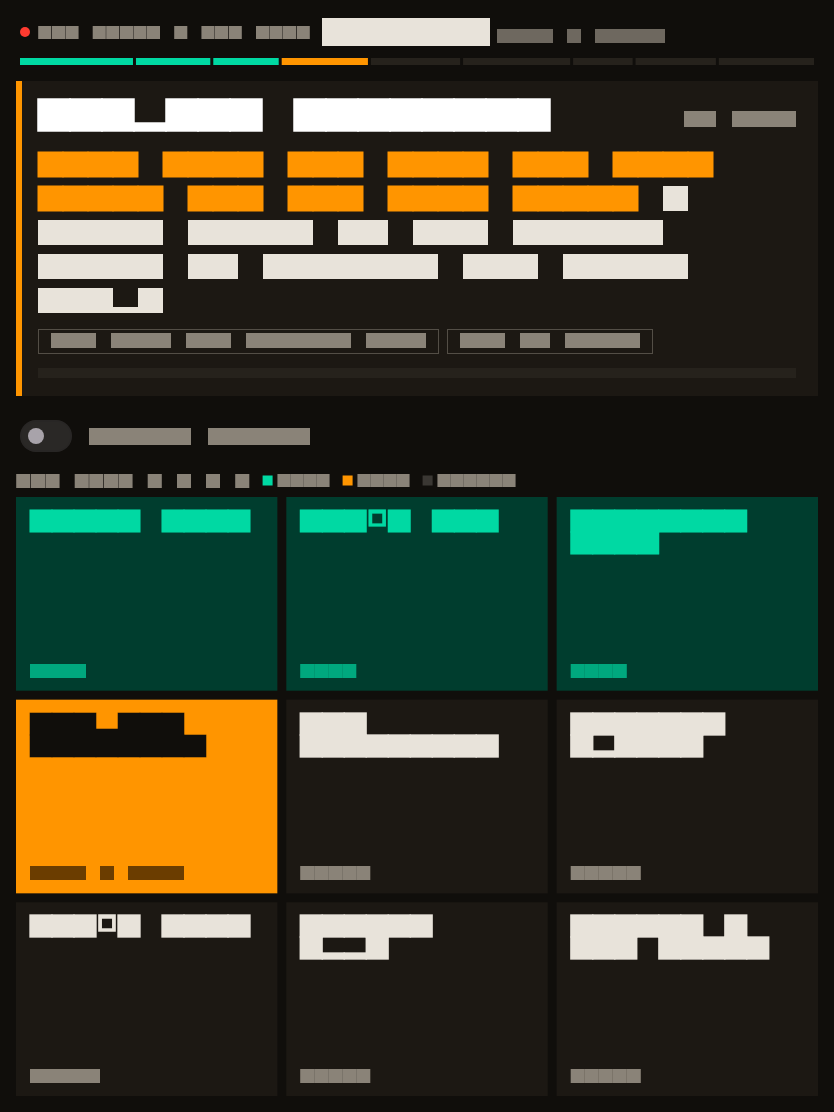
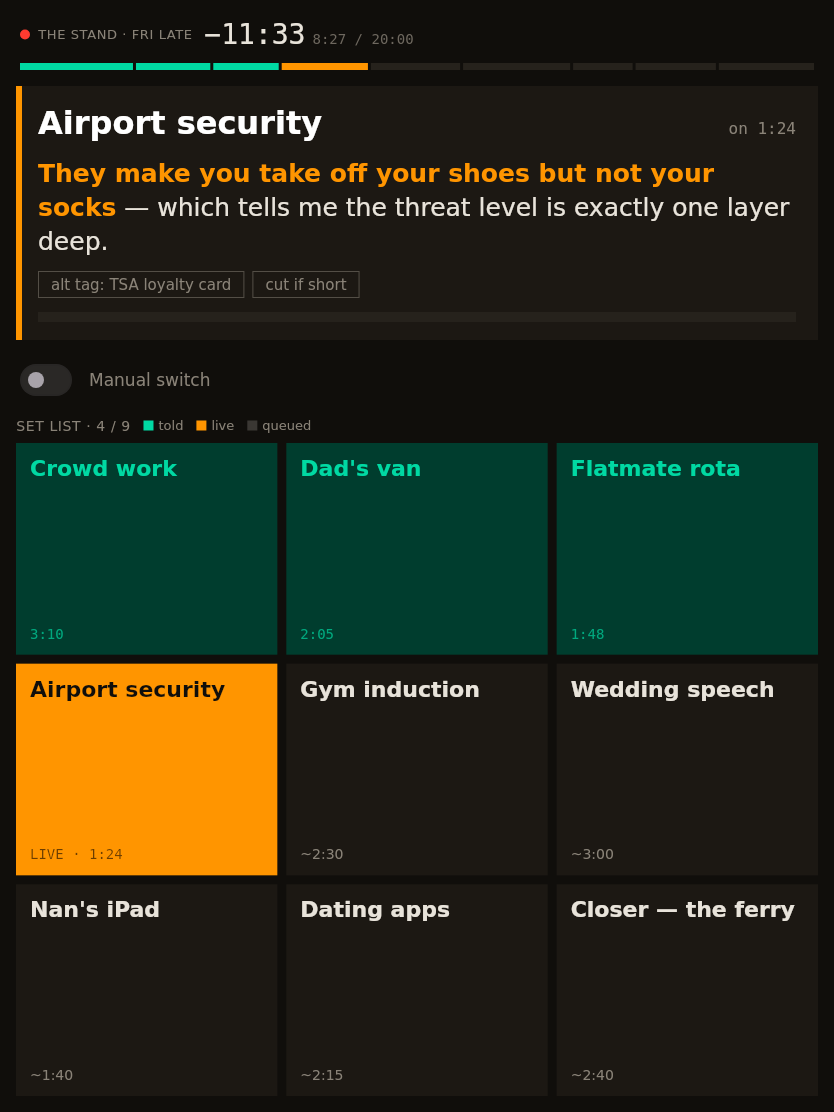
Make the spec's pictures show what their leaves claim
Two independent defects meant the gallery proved far less than it looked
like. Both are fixed here and every golden is re-baselined once, so the
diff is the first honest look at most of these leaves.

Region crops rendered the whole screen. matchesGoldenFile given a Finder
captures that finder's nearest ancestor RepaintBoundary, and the screen
has none per element, so seventeen leaves about seventeen different
things were all proved by one identical picture. The crop now happens in
the harness, out of a single boundary around the composed screen — which
is what the document already said it did, and keeps the boundary out of
the product. Distinct images go from 8 of 24 to 19; the five that remain
are pairs of leaves that genuinely share a region.

Text rendered as boxes. loadProductFonts registered each family under
the name the manifest lists, but a dependency's families are namespaced
packages/<package>/<family> while a TextStyle names the bare family, so
the bytes loaded under a name nothing asked for and every render fell
back to the glyph-less stub. Stripping the prefix is a no-op in the
package that owns the fonts and the fix in every package that consumes
them.

The assurance that would have caught it lived only in setlist_ui, which
is the package where it cannot fail. It is now a shared assertion, and
the requirements half runs inside runner_test.dart — beside the goldens,
in the command that produces them, since a file at that package's root
[…]

diff --git a/packages/setlist_ui/lib/testing.dart b/packages/setlist_ui/lib/testing.dart
@@ -6,6 +6,8 @@ import 'package:flutter_test/flutter_test.dart';
 
 import 'setlist_ui.dart';
 
+export 'src/font_assurance.dart' show expectFontsRenderRealGlyphs;
+
 /// Loads the families the product bundles into the test renderer.
 ///
 /// A test environment renders text in a glyph-less stub font by default, where
@@ -31,13 +33,33 @@ Future<void> loadProductFonts() async {
     await rootBundle.loadString('FontManifest.json'),
   ) as List<dynamic>;
 
+  if (manifest.isEmpty) {
+    throw StateError(
+      'FontManifest.json declares no families, so every render would use the '
+      'glyph-less fallback and any golden of it would be blind to copy.',
+    );
+  }
+
   for (final entry in manifest.cast<Map<String, dynamic>>()) {
-    final loader = FontLoader(entry['family'] as String);
+    final loader = FontLoader(_bareFamily(entry['family'] as String));
     for (final font in (entry['fonts'] as List<dynamic>).cast<Map<String, dynamic>>()) {
       loader.addFont(rootBundle.load(font['asset'] as String));
     }
     await loader.load();
   }
+}
+
+/// The family name a widget asks for, from the name the manifest lists it under.
+///
+/// A package's own fonts appear in its manifest unprefixed, but the same fonts
+/// seen from a package that *depends* on it are namespaced
+/// `packages/<package>/<family>`. A `TextStyle` names the bare family either
+/// way, so registering the manifest's name verbatim loads the bytes under a
+/// name nothing asks for: the text then renders in the glyph-less fallback, and
+/// a golden of it is blind to copy while still passing.
+String _bareFamily(String manifestFamily) {
+  final match = RegExp(r'^packages/[^/]+/(.+)$').firstMatch(manifestFamily);
+  return match?.group(1) ?? manifestFamily;
 }
 
 /// The sizes the product is specified at.
@@ -65,6 +87,12 @@ List<String> get stageSizesWidestLast {
   names.sort((a, b) => stageSizes[a]!.width.compareTo(stageSizes[b]!.width));
   return names;
 }
+
+/// The composed screen, as one capturable layer.
+///
+/// Every picture in the spec — whole screen or one element — is read out of
+/// this, so an element is always proved in the context the product shows it in.
+final stageRootKey = GlobalKey(debugLabel: 'stage-root');
 
 /// Renders the real stage screen at one of the specified sizes.
 ///
@@ -110,11 +138,13 @@ Future<void> pumpStage(
           child: SizedBox(
             width: bounds.width,
             height: bounds.height,
-            // Keyed by size so a second render in the same test builds a fresh
-            // tree rather than updating the last one: reused elements keep
-            // their old slots, and a card ends up laid out against a width the
-            // screen no longer has.
-            child: StageScreen(state: state),
+            // The boundary every picture in the spec is read out of: capturing
+            // an element needs a layer, and the composed screen is the only one
+            // the product actually draws.
+            child: RepaintBoundary(
+              key: stageRootKey,
+              child: StageScreen(state: state),
+            ),
           ),
         ),
       ),

diff --git a/packages/setlist_ui/test/fonts_render_real_glyphs_test.dart b/packages/setlist_ui/test/fonts_render_real_glyphs_test.dart
@@ -1,72 +1,14 @@
-import 'dart:typed_data';
-import 'dart:ui' as ui;
-
-import 'package:flutter/material.dart';
-import 'package:flutter/rendering.dart';
 import 'package:flutter_test/flutter_test.dart';
 import 'package:setlist_ui/testing.dart';
 
-/// The assurance behind [loadProductFonts]: with the product's fonts loaded,
-/// two strings that differ only in a character — not in length — must render
-/// differently.
-///
-/// This is the test that keeps the gallery honest. Without it the harness can
-/// regress to the stub font and every golden keeps passing while proving only
-/// that the text is the right *length*; the spec pins exact copy at more than a
-/// dozen leaves, and all of them would silently stop being checked. Watched it
-/// fail with the fonts unloaded: the two renders below came back identical.
+/// The assurance behind [loadProductFonts], run in the package that declares
+/// the fonts. Its twin in `dev/requirements` runs the same check in the package
+/// that renders the spec's goldens — font resolution is per-package, so passing
+/// here says nothing about passing there.
 void main() {
   setUpAll(loadProductFonts);
 
   testWidgets('same-length copy changes are visible in a render', (tester) async {
-    final stand = await _render(tester, 'THE STAND');
-    final stane = await _render(tester, 'THE STANE');
-
-    // Same character count and the same style, so the layout box is identical:
-    // a difference in the pixels can only be the glyphs themselves.
-    expect(stand.width, stane.width);
-    expect(stand.height, stane.height);
-    expect(
-      stand.pixels,
-      isNot(equals(stane.pixels)),
-      reason: 'THE STAND and THE STANE rendered identically — the renderer is '
-          'drawing boxes, not glyphs, so no golden can see wrong copy',
-    );
+    await expectFontsRenderRealGlyphs(tester);
   });
-
-}
-
-final _boundary = GlobalKey();
-
-class _Render {
-  const _Render(this.width, this.height, this.pixels);
-  final int width;
-  final int height;
-  final Uint8List pixels;
-}
-
-Future<_Render> _render(WidgetTester tester, String text) async {
-  await tester.pumpWidget(
-    RepaintBoundary(
-      key: _boundary,
-      child: Directionality(
-        textDirection: TextDirection.ltr,
-        child: Text(
-          text,
-          style: const TextStyle(fontFamily: 'DejaVuSans', fontSize: 32),
-        ),
-      ),
-    ),
-  );
-  await tester.pumpAndSettle();
-
-  // toImage completes only outside the fake-async test zone.
-  late _Render render;
-  await tester.runAsync(() async {
-    final boundary = _boundary.currentContext!.findRenderObject()! as RenderRepaintBoundary;
-    final image = await boundary.toImage();
-    final data = await image.toByteData(format: ui.ImageByteFormat.rawRgba);
-    render = _Render(image.width, image.height, data!.buffer.asUint8List());
-  });
-  return render;
 }

diff --git a/packages/setlist_ui/lib/src/font_assurance.dart b/packages/setlist_ui/lib/src/font_assurance.dart
@@ -1,0 +1,66 @@
+import 'dart:typed_data';
+import 'dart:ui' as ui;
+
+import 'package:flutter/rendering.dart';
+import 'package:flutter/widgets.dart';
+import 'package:flutter_test/flutter_test.dart';
+
+/// Fails unless the product's fonts are really drawing glyphs in this package.
+///
+/// Every package that renders a golden calls this, because font resolution is
+/// per-package: a dependency's families are namespaced in the depending
+/// package's manifest, so fonts can load in one package and silently fall back
+/// to the glyph-less stub in another. Without this, a golden keeps passing
+/// while proving only that the text is the right *length* — and this spec pins
+/// exact copy at more than a dozen leaves.
+Future<void> expectFontsRenderRealGlyphs(WidgetTester tester) async {
+  final stand = await _render(tester, 'THE STAND');
+  final stane = await _render(tester, 'THE STANE');
+
+  // Same character count and the same style, so the layout box is identical:
+  // a difference in the pixels can only be the glyphs themselves.
+  expect(stand.width, stane.width);
+  expect(stand.height, stane.height);
+  expect(
+    stand.pixels,
+    isNot(equals(stane.pixels)),
+    reason: 'THE STAND and THE STANE rendered identically — the renderer is '
+        'drawing boxes, not glyphs, so no golden can see wrong copy',
+  );
+}
+
+
+final _boundary = GlobalKey();
+
+class _Render {
+  const _Render(this.width, this.height, this.pixels);
+  final int width;
+  final int height;
+  final Uint8List pixels;
+}
+
+Future<_Render> _render(WidgetTester tester, String text) async {
+  await tester.pumpWidget(
+    RepaintBoundary(
+      key: _boundary,
+      child: Directionality(
+        textDirection: TextDirection.ltr,
+        child: Text(
+          text,
+          style: const TextStyle(fontFamily: 'DejaVuSans', fontSize: 32),
+        ),
+      ),
+    ),
+  );
+  await tester.pumpAndSettle();
+
+  // toImage completes only outside the fake-async test zone.
+  late _Render render;
+  await tester.runAsync(() async {
+    final boundary = _boundary.currentContext!.findRenderObject()! as RenderRepaintBoundary;
+    final image = await boundary.toImage();
+    final data = await image.toByteData(format: ui.ImageByteFormat.rawRgba);
+    render = _Render(image.width, image.height, data!.buffer.asUint8List());
+  });
+  return render;
+}

diff --git a/dev/requirements/shared/snapshot.dart b/dev/requirements/shared/snapshot.dart
@@ -1,3 +1,6 @@
+import 'dart:ui' as ui;
+
+import 'package:flutter/rendering.dart';
 import 'package:flutter/widgets.dart';
 import 'package:flutter_test/flutter_test.dart';
 import 'package:setlist_ui/setlist_ui.dart';
@@ -18,9 +21,39 @@ Future<void> expectRegion(
 }) async {
   await pumpStage(tester, state, size: size);
   await expectLater(
-    find.byKey(region.key),
+    await _cropOfScreen(tester, regionBounds(tester, region)),
     matchesGoldenFile('screen/cases/$slug.$id.png'),
   );
+}
+
+/// The composed screen, with everything outside [rect] cut away.
+///
+/// Cropping here rather than pointing the matcher at the element itself:
+/// `matchesGoldenFile` given a `Finder` captures that finder's nearest
+/// *ancestor* `RepaintBoundary`, not the widget's own bounds. The screen has no
+/// boundary per element, so every such capture silently returned the whole
+/// screen — leaving seventeen leaves about seventeen different elements all
+/// proved by one identical picture.
+Future<ui.Image> _cropOfScreen(WidgetTester tester, Rect rect) async {
+  final boundary =
+      stageRootKey.currentContext!.findRenderObject()! as RenderRepaintBoundary;
+  // Real image work never completes inside the fake-async test zone.
+  late ui.Image cropped;
+  await tester.runAsync(() async {
+    final whole = await boundary.toImage();
+    final recorder = ui.PictureRecorder();
+    Canvas(recorder).drawImageRect(
+      whole,
+      rect,
+      Offset.zero & rect.size,
+      Paint(),
+    );
+    cropped = await recorder
+        .endRecording()
+        .toImage(rect.width.round(), rect.height.round());
+    whole.dispose();
+  });
+  return cropped;
 }
 
 /// Renders the whole screen and compares it with its golden.

diff --git a/dev/requirements/runner_test.dart b/dev/requirements/runner_test.dart
@@ -16,6 +16,16 @@ void main() {
   // once per process, and a second call inside a test body hangs the next one.
   setUpAll(loadProductFonts);
 
+  // Runs beside the goldens, in the command that produces them, because font
+  // resolution is per-package: a dependency's families are namespaced in the
+  // depending package's manifest while a TextStyle names the bare family, so
+  // the fonts can load here and still draw nothing but boxes. The same check
+  // passes in setlist_ui and failed here, with every committed golden blind to
+  // the copy its leaf pins.
+  testWidgets('the goldens below are rendered with real glyphs', (tester) async {
+    await expectFontsRenderRealGlyphs(tester);
+  });
+
   _run('logic', logicCases);
   _run('behavior', behaviorCases);
   _run('screen', screenCases);
